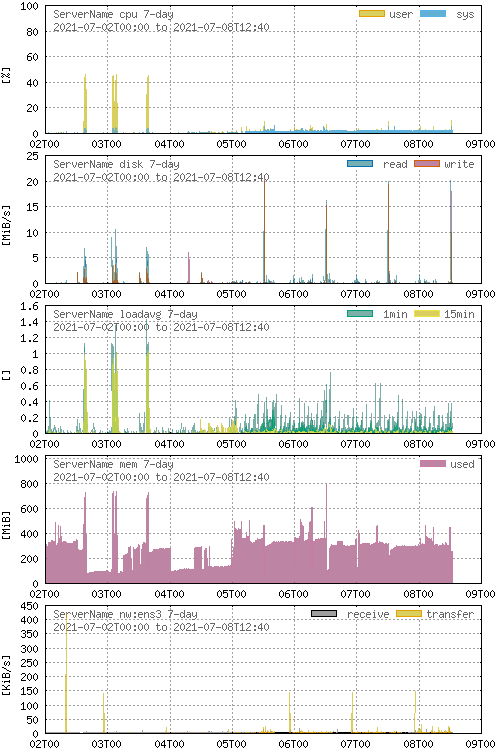
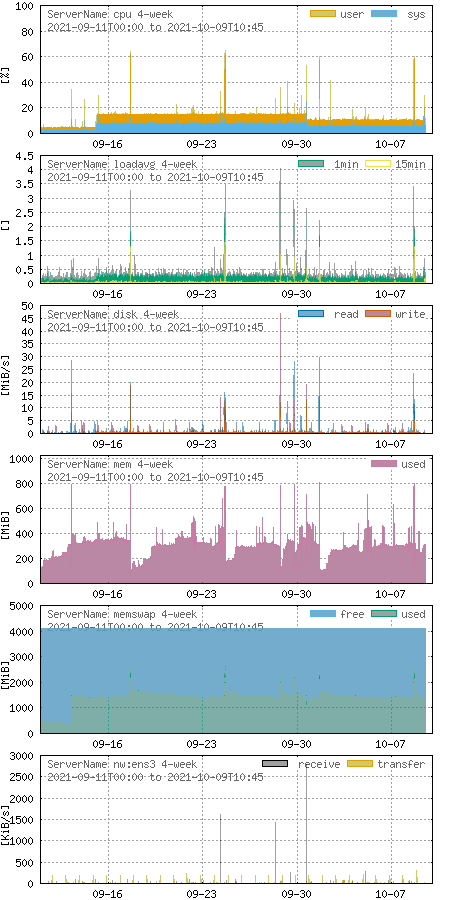
20211009 added memswap chart, accumulation is now available, and made some refactoring

diff --git a/README.md b/README.md
@@ -2,6 +2,6 @@
 
 ![](https://raw.githubusercontent.com/eineflocke/Sar2Png/master/sample.png)
 
-makes sar (sysstat) results into time-series png image 
+makes sar (sysstat) results into time-series png images
 
 requires gnuplot (>= 5), imagemagick
